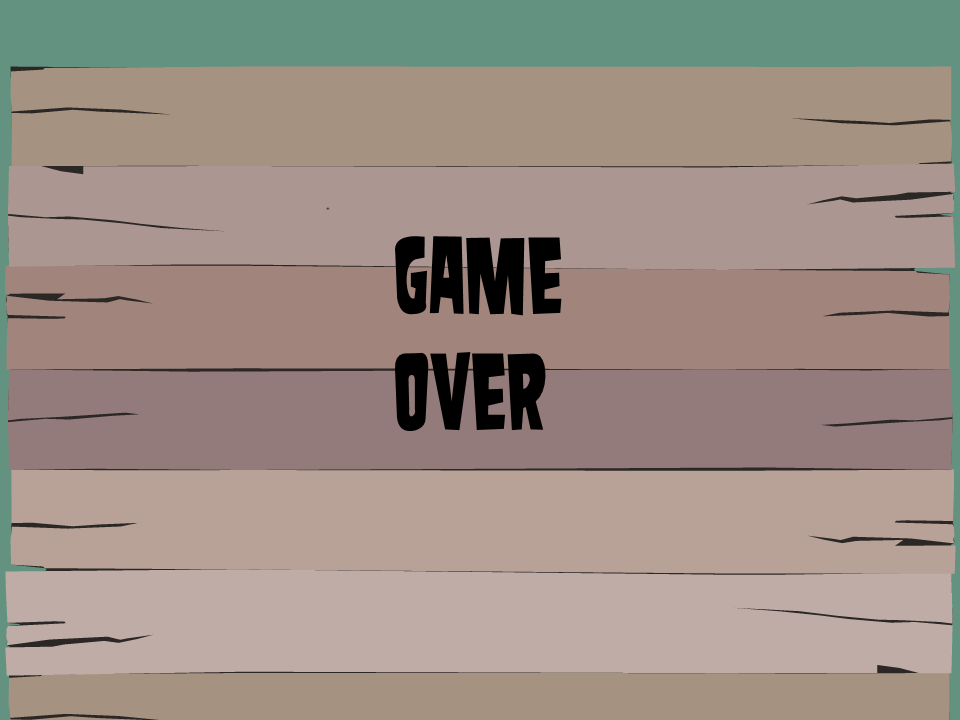
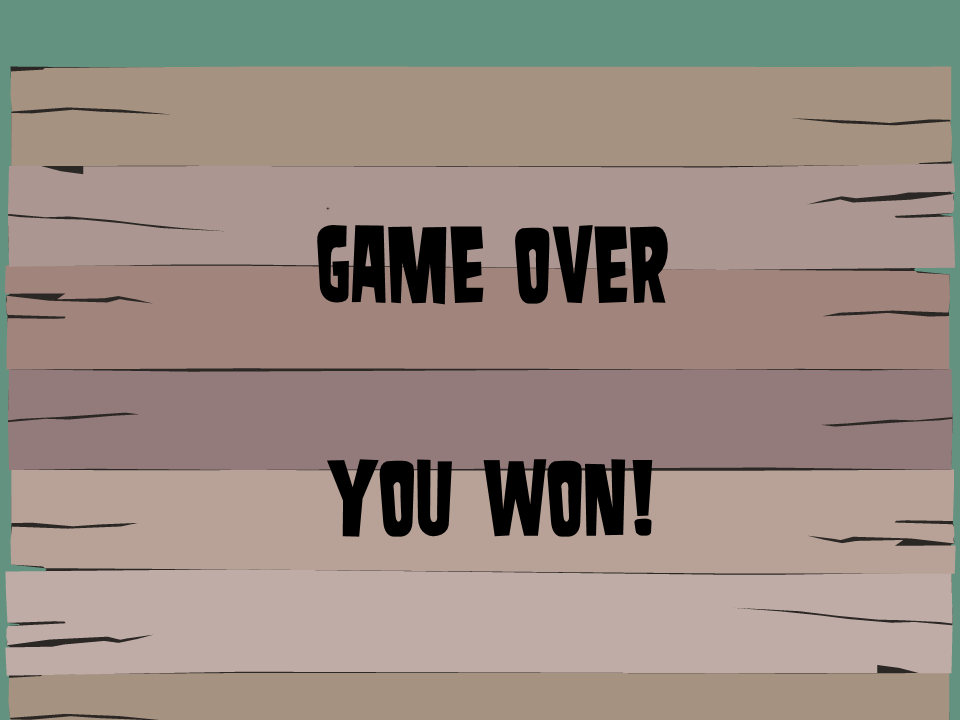
Game over takes you back to title after a win screen who knows what else has changed BIG CHANGES NO PROMISES

diff --git a/EDGP3/Assets/Peregrin's Work/Scripts/PunchKnight.cs b/EDGP3/Assets/Peregrin's Work/Scripts/PunchKnight.cs
@@ -36,9 +36,9 @@ public class PunchKnight : MonoBehaviour {
 	// Update is called once per frame
 	void Update ()
 	{
-		if (GetComponent<PlayerStats>().coinScore >= 10 && GetComponent<PlayerStats>().damage == 1) GetComponent<PlayerStats>().damage += 1;
-		if (GetComponent<PlayerStats>().coinScore >= 20 && GetComponent<PlayerStats>().damage == 2) GetComponent<PlayerStats>().damage += 1;
-		if (GetComponent<PlayerStats>().coinScore >= 30 && GetComponent<PlayerStats>().damage == 3) GetComponent<PlayerStats>().damage += 1;
+		if (GetComponent<PlayerStats>().coinScore >= GetComponent<PlayerStats>().coin1 && GetComponent<PlayerStats>().damage == 1) GetComponent<PlayerStats>().damage += 1;
+		if (GetComponent<PlayerStats>().coinScore >= GetComponent<PlayerStats>().coin2 && GetComponent<PlayerStats>().damage == 2) GetComponent<PlayerStats>().damage += 1;
+		if (GetComponent<PlayerStats>().coinScore >= GetComponent<PlayerStats>().coin3 && GetComponent<PlayerStats>().damage == 3) GetComponent<PlayerStats>().damage += 1;
 	
 		shipType = transform.GetComponent<PlayerStats>().role;
 

diff --git a/EDGP3/Assets/Peregrin's Work/Scripts/MirrorMage.cs b/EDGP3/Assets/Peregrin's Work/Scripts/MirrorMage.cs
@@ -93,9 +93,9 @@ public class MirrorMage : MonoBehaviour {
 	// Update is called once per frame
 	void Update ()
 	{
-		if (GetComponent<PlayerStats>().coinScore >= 10 && width == .1f) width = .2f;
-		if (GetComponent<PlayerStats>().coinScore >= 20 && damage == .05f) damage = .1f;
-		if (GetComponent<PlayerStats>().coinScore >= 30 && width == .2f) width = .3f;
+		if (GetComponent<PlayerStats>().coinScore >= GetComponent<PlayerStats>().coin1 && width == .1f) width = .2f;
+		if (GetComponent<PlayerStats>().coinScore >= GetComponent<PlayerStats>().coin2 && damage == .05f) damage = .1f;
+		if (GetComponent<PlayerStats>().coinScore >= GetComponent<PlayerStats>().coin3 && width == .2f) width = .3f;
 		
 	
 		if (GetComponent<PlayerStats>().role == "Defender" && GameObject.FindGameObjectsWithTag("MMShield").Length == 0)

diff --git a/EDGP3/Assets/Peregrin's Work/Scripts/DragonTamer.cs b/EDGP3/Assets/Peregrin's Work/Scripts/DragonTamer.cs
@@ -44,9 +44,9 @@ public class DragonTamer : MonoBehaviour {
 	void Update () {
 		shipType = transform.GetComponent<PlayerStats>().role;
 		
-		if (GetComponent<PlayerStats>().coinScore >= 10 && minDrag == 1) minDrag += 1;
-		if (GetComponent<PlayerStats>().coinScore >= 20 && minDrag == 2) minDrag += 1;
-		if (GetComponent<PlayerStats>().coinScore >= 30 && minDrag == 3) minDrag += 1;
+		if (GetComponent<PlayerStats>().coinScore >= GetComponent<PlayerStats>().coin1 && minDrag == 1) minDrag += 1;
+		if (GetComponent<PlayerStats>().coinScore >= GetComponent<PlayerStats>().coin2 && minDrag == 2) minDrag += 1;
+		if (GetComponent<PlayerStats>().coinScore >= GetComponent<PlayerStats>().coin3 && minDrag == 3) minDrag += 1;
 		
 		
 		for (int i = 0; i < dragons.Count; i++)

diff --git a/EDGP3/Assets/Peregrin's Work/Scripts/Tinker.cs b/EDGP3/Assets/Peregrin's Work/Scripts/Tinker.cs
@@ -37,9 +37,9 @@ public class Tinker : MonoBehaviour {
 	// Update is called once per frame
 	void Update ()
 	{
-		if (GetComponent<PlayerStats>().coinScore >= 10 && spawnCD == 3) spawnCD = 2.5f;
-		if (GetComponent<PlayerStats>().coinScore >= 20 && spawnCD == 2.5f) spawnCD = 2;
-		if (GetComponent<PlayerStats>().coinScore >= 30 && spawnCD == 2) spawnCD = 1.5f;
+		if (GetComponent<PlayerStats>().coinScore >= GetComponent<PlayerStats>().coin1 && spawnCD == 3) spawnCD = 2.5f;
+		if (GetComponent<PlayerStats>().coinScore >= GetComponent<PlayerStats>().coin2 && spawnCD == 2.5f) spawnCD = 2;
+		if (GetComponent<PlayerStats>().coinScore >= GetComponent<PlayerStats>().coin3 && spawnCD == 2) spawnCD = 1.5f;
 	
 		if (attackType == 0)
 		{

diff --git a/EDGP3/Assets/Peregrin's Work/Scripts/GUIManager.cs b/EDGP3/Assets/Peregrin's Work/Scripts/GUIManager.cs
@@ -29,7 +29,7 @@ public class GUIManager : MonoBehaviour {
 	public int mode = 0;
 	
 	//Tutorial script holding thingy
-	public Transform tutorial;
+	public Texture win;
 	
 	//HUD stuff
 	//Buttons
@@ -216,6 +216,14 @@ public class GUIManager : MonoBehaviour {
 		if(death == true){
 			Application.LoadLevel("Peregrin's Scene");
 
+		}
+		
+		if (mode == 5)
+		{
+			GUI.Box (new Rect(0, 0, Screen.width, Screen.height), win);
+			float finalScore = player1.GetComponent<PlayerStats>().score + player2.GetComponent<PlayerStats>().score;
+			GUI.Label (new Rect(Screen.width / 3, Screen.height * 3 / 4, Screen.width / 3, Screen.height / 4), finalScore.ToString()+"\nAny button to continue...");
+			
 		}
 
 		

diff --git a/EDGP3/Assets/Peregrin's Work/Scripts/End.cs b/EDGP3/Assets/Peregrin's Work/Scripts/End.cs
@@ -1,0 +1,20 @@
+using UnityEngine;
+using System.Collections;
+
+public class End : MonoBehaviour {
+
+	public float time;
+	float timer;
+
+	// Use this for initialization
+	void Start ()
+	{
+		timer = time + Time.time;
+	}
+	
+	// Update is called once per frame
+	void Update ()
+	{
+		if (Time.time > timer) Application.LoadLevel("Peregrin's Scene");
+	}
+}

diff --git a/EDGP3/Assets/Peregrin's Work/Scripts/PlayerStats.cs b/EDGP3/Assets/Peregrin's Work/Scripts/PlayerStats.cs
@@ -58,6 +58,10 @@ public class PlayerStats : MonoBehaviour {
 	private Animator anim;
 	private GameObject bar;
 	private GameObject sound;
+	
+	public float coin1 = 50;
+	public float coin2 = 100;
+	public float coin3 = 150;
 
 	// Use this for initialization
 	void Start () {

diff --git a/EDGP3/Assets/Peregrin's Work/Scripts/Transition.cs b/EDGP3/Assets/Peregrin's Work/Scripts/Transition.cs
@@ -76,8 +76,7 @@ public class Transition : MonoBehaviour {
 	{
 
 		if(end == true){
-			GUI.DrawTexture(new Rect(0, 0, 435, 326), a,ScaleMode.StretchToFill);
-			//Debug.Log("run");
+			Application.LoadLevel("Reginald's Scene");
 		}
 
 	}
